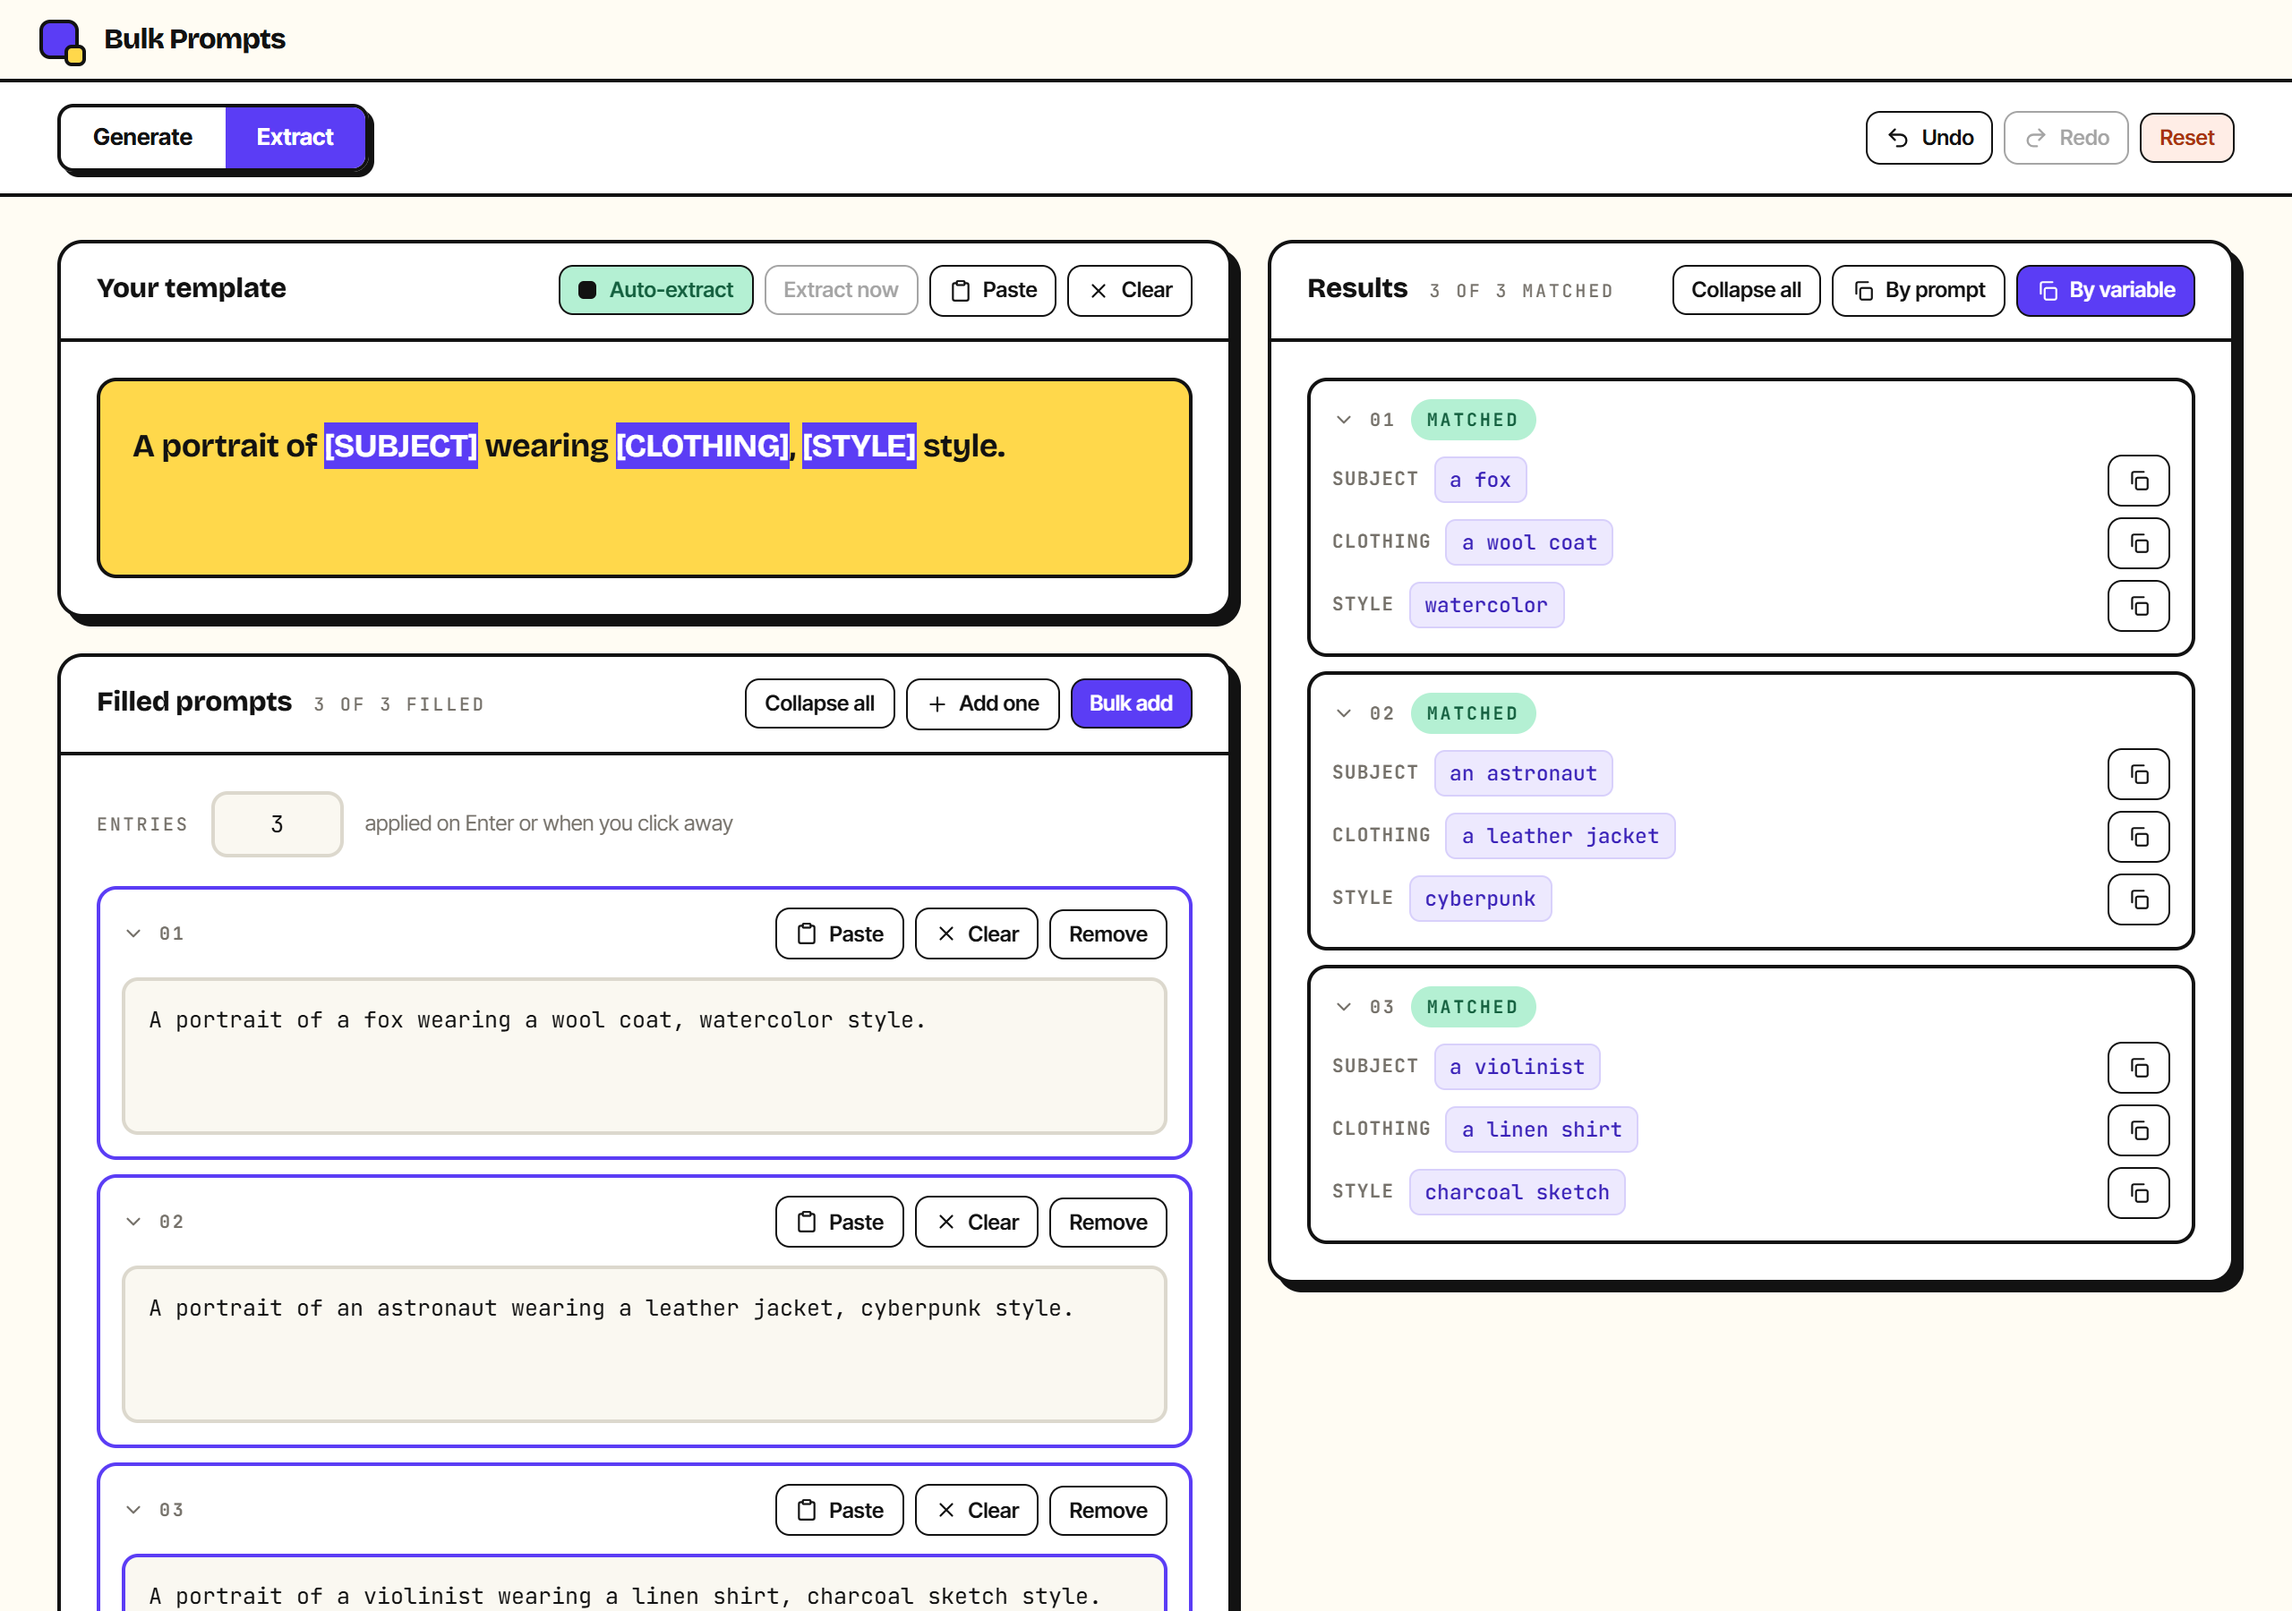
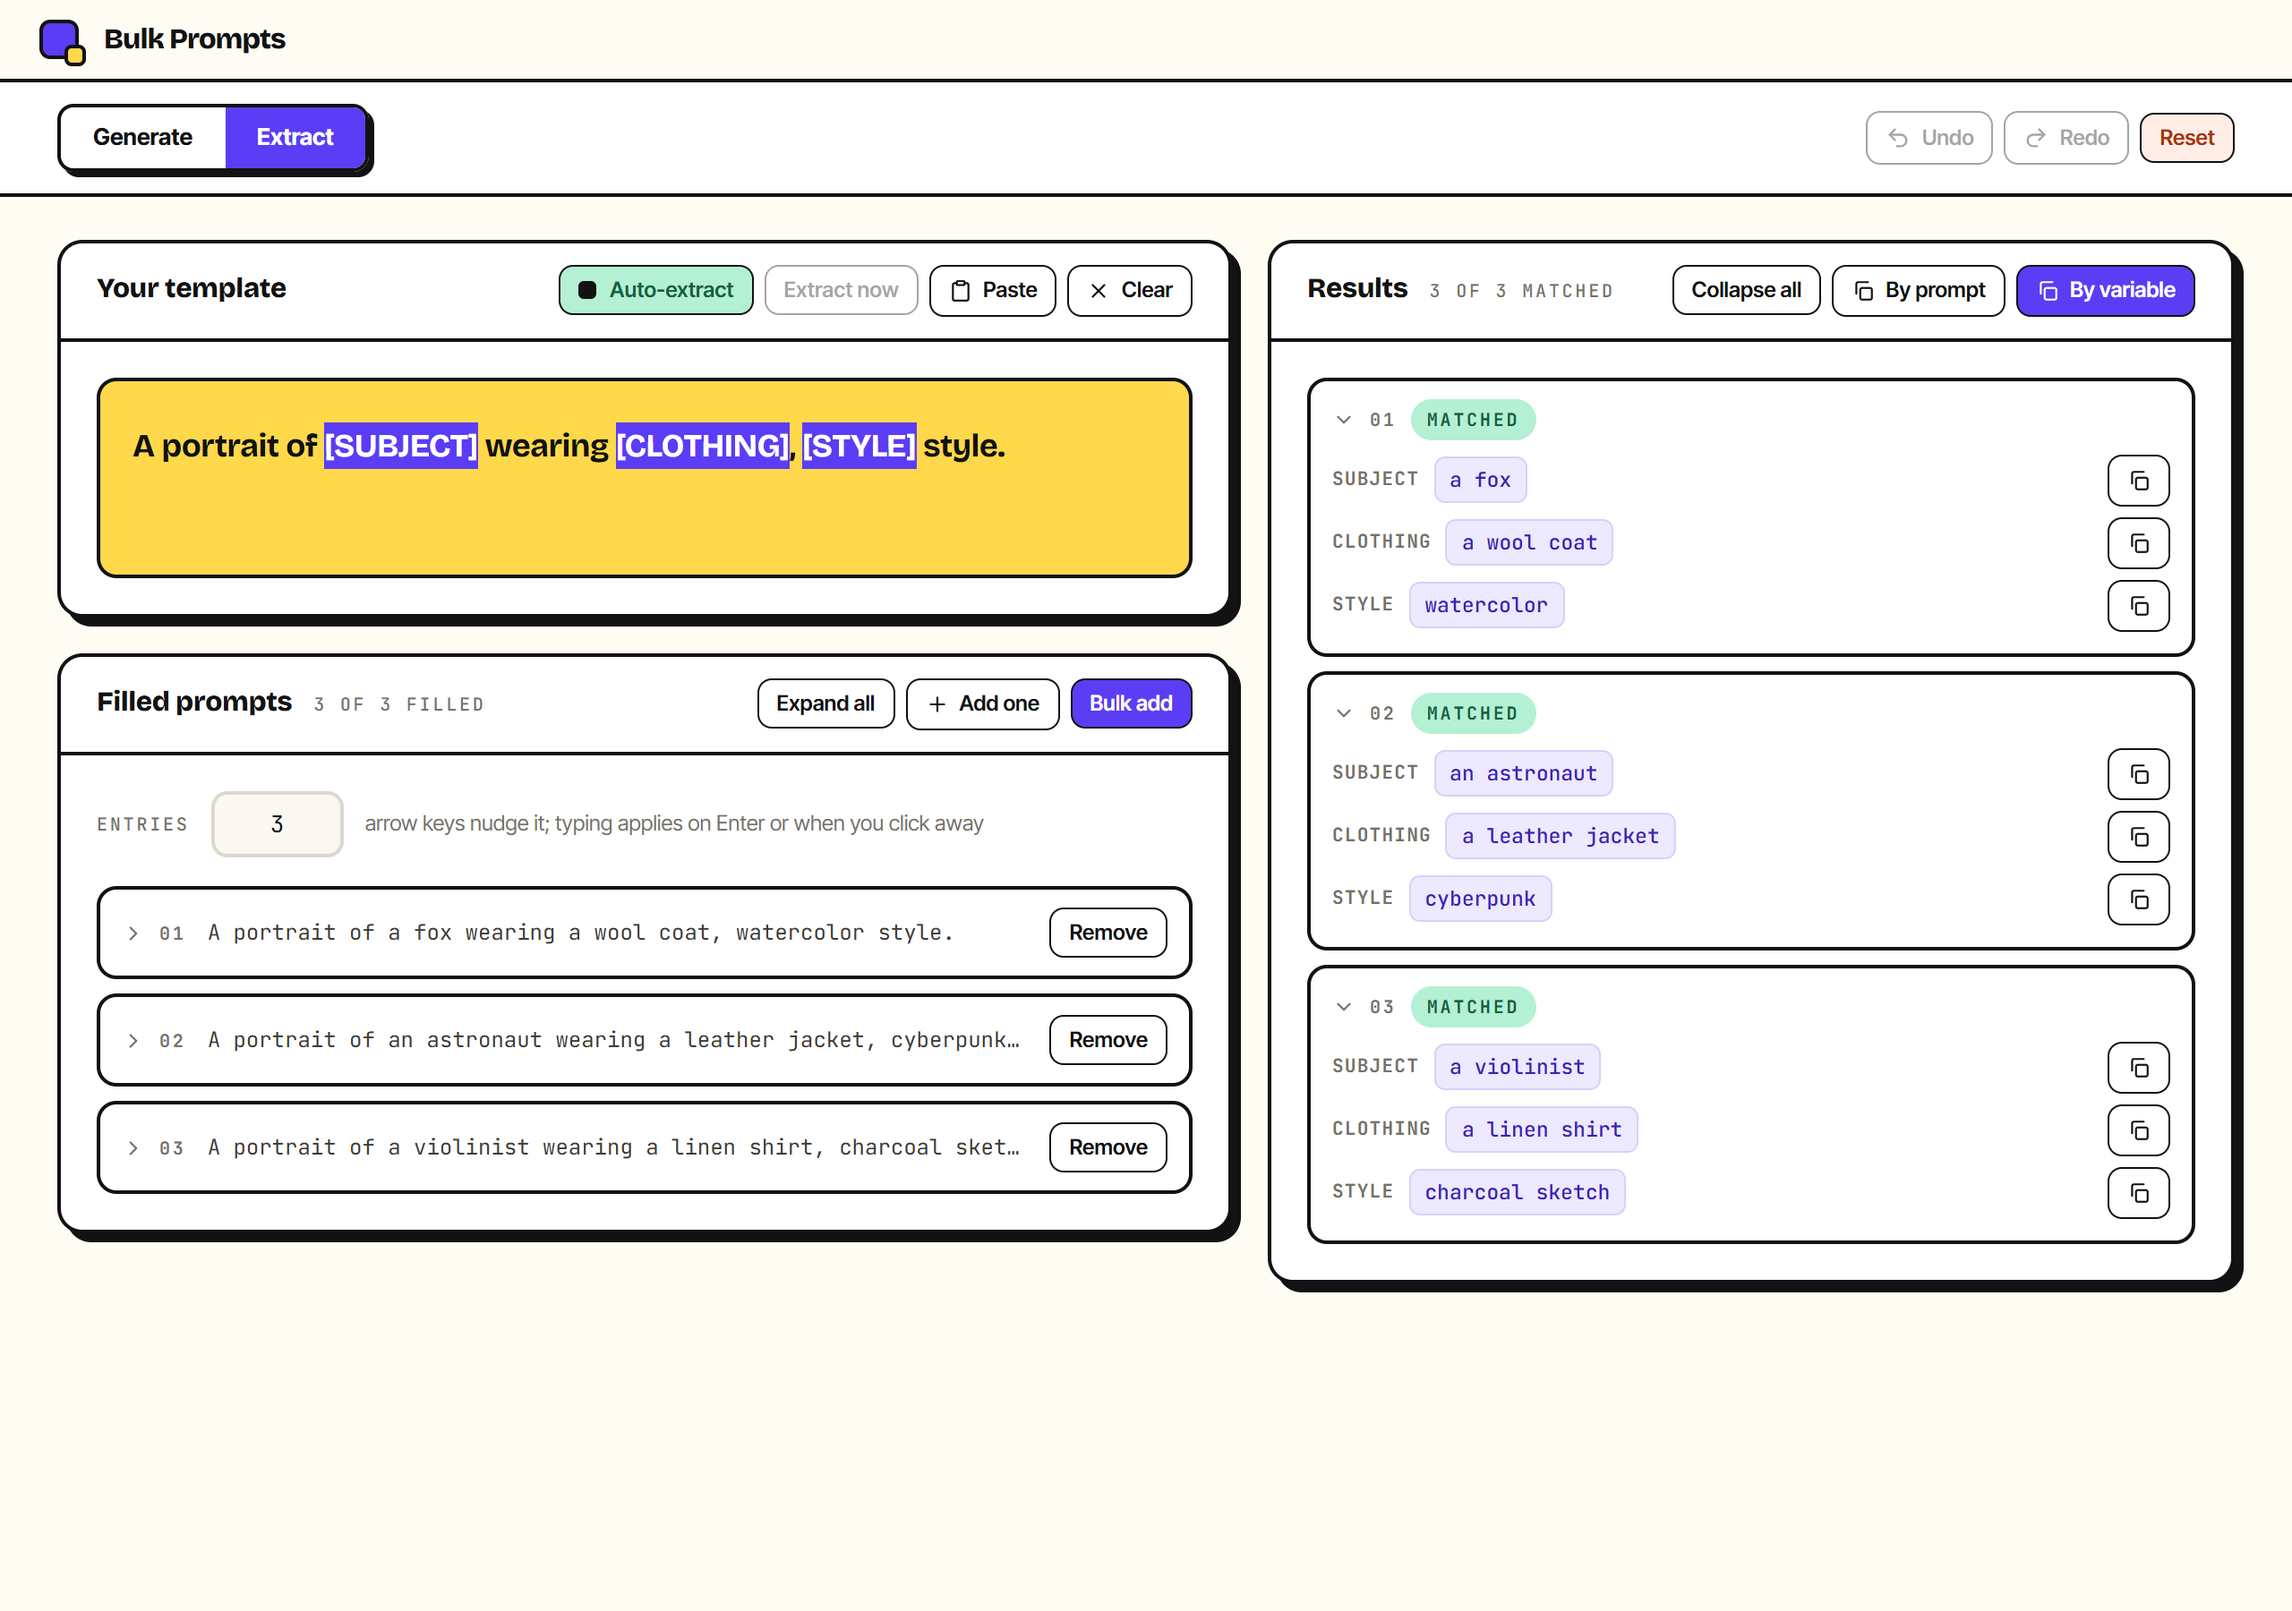
Document the new Permutation model, refresh all screenshots, bump to 1.1.1
Rewrites the README's Permutation section and Features bullet around
the section-wide default plus per-row override model, and adds a note
contrasting the live-updating group-size fields with Extract's
deliberately cautious entry-count field.

All three screenshots are recaptured against the current UI — the
previous permutation screenshot in particular showed the old
per-variable toggle design, which no longer exists.

Also drops the .gitignore entries for CLAUDE.md and SPEC.md (both
removed from the working tree; always untracked, local-only build
docs), and bumps package.json, package-lock.json, Cargo.toml, and
tauri.conf.json to 1.1.1 for the release.

diff --git a/README.md b/README.md
@@ -29,7 +29,7 @@ Generating fifty variations of the same prompt by hand is slow, and routing each
 - **Two tools, one shared shell.** Generate turns one template into many prompts; Extract runs the same idea backward. Each has its own undo history and local storage, switchable with one click.
 - **Spreadsheet-friendly input.** Every variable's values are a plain textarea, one value per line, so a column pasted straight out of a spreadsheet works with no reformatting.
 - **Uneven lists just work.** Row count follows the longest variable's list; shorter lists repeat their own last value to fill the rest, instead of forcing every column to the same length.
-- **Permutation grouping.** Flip a variable's Permutation toggle and pick a group size, and its list stops filling one row at a time — it chunks into consecutive `{a, b, c}`-style groups, one group per row, so a long list of tags or subjects can drive a handful of combined prompts instead of dozens of single ones.
+- **Permutation grouping.** One switch, next to *Collapse all*, turns every variable's list into consecutive `{a, b, c}`-style groups at a shared size, live — change the number and every variable regroups at once. Any single variable can still break off with its own size, or opt out entirely, independent of the rest.
 - **Reverses itself.** Give Extract the template plus a batch of prompts someone already wrote, and it recovers the values that produced them, flagging genuinely ambiguous cases (like `[FIRST][LAST]` with no separator between them) instead of silently guessing.
 - **Rich-text copy.** Copy with bold, italic, or underline on the variable portions, so a pasted prompt stays visually distinct in any rich-text destination, and falls back to clean plain text everywhere else.
 - **Full undo history.** A 50-deep undo stack per tool, with every bulk or destructive action (clear, shuffle, reset, bulk replace) captured as a clean, one-step undo point.
@@ -65,15 +65,19 @@ Extract does the same work in reverse: give it the template and those three fini
 
 ### Permutation grouping
 
-Turn on a variable's **Permutation** toggle and pick a group size, and that variable stops filling one row at a time — its list chunks into consecutive groups instead, each substituted as a single `{a, b, c}`-style value. Everything downstream (row count, the "longest list" driver, repeats-last) treats a group exactly like any other value.
+One **Permutation** control, next to *Collapse all*, is the default entry point for the whole section: turn it on and pick a size, and every variable's list stops filling one row at a time — each one chunks into consecutive groups instead, substituted as a single `{a, b, c}`-style value. Change the shared size and every variable regroups immediately, live — no Enter, no clicking away, and the mouse wheel works too while a group-size field is hovered.
+
+A single variable can still go its own way. Click any variable's `→ N groups of M` pill and it detaches with its own toggle and size — a different number, or off entirely — independent of whatever the shared default is doing. A **Match default** chip on that row reattaches it. Everything downstream (row count, the "longest list" driver, repeats-last) treats a group exactly like any other value, whether it came from the default or a variable's own override.
+
+A trailing group left with fewer values than the group size — the list didn't divide evenly — renders as a plain value instead of a set, since there's nothing left in it to group against.
 
 **Template**
 
 ```
-A group portrait of [SUBJECTS].
+A group portrait of [SUBJECTS], painted in [STYLE].
 ```
 
-**SUBJECTS**, six values, Permutation on with a group size of 3
+**SUBJECTS**, five values, following the shared default at a group size of 2
 
 ```
 a fox
@@ -81,17 +85,28 @@ an astronaut
 a violinist
 a beekeeper
 a locksmith
-a tightrope walker
+```
+
+**STYLE**, overridden to its own group size of 4
+
+```
+oil painting
+watercolor
+ink wash
+charcoal
 ```
 
 **Generates**
 
 ```
-A group portrait of {a fox, an astronaut, a violinist}.
-A group portrait of {a beekeeper, a locksmith, a tightrope walker}.
+A group portrait of {a fox, an astronaut}, painted in {oil painting, watercolor, ink wash, charcoal}.
+A group portrait of {a violinist, a beekeeper}, painted in {oil painting, watercolor, ink wash, charcoal}.
+A group portrait of a locksmith, painted in {oil painting, watercolor, ink wash, charcoal}.
 ```
 
-![SUBJECTS variable with Permutation on, grouping six values into two rows of three](docs/permutation.png)
+STYLE only has one group, so it repeats for every row past the first — the same rule any variable with a shorter list follows, whether it's grouped or not. Note the third row's SUBJECTS: a trailing group of exactly one value renders plain, not `{braced}`.
+
+![SUBJECTS following the shared default at a group size of 2 while STYLE is overridden to its own group size of 4, with the section-wide Permutation control visible at the top](docs/permutation.png)
 
 ## Desktop vs. browser
 
@@ -199,7 +214,9 @@ src-tauri/              Rust side of the desktop shell: window config, bundler
 
 **Undo history is in-memory.** Each tool has its own 50-deep stack. It survives switching tools but is cleared on reload: field values come back, history does not. The undo/redo buttons disable when a stack is empty so this is visible, not mysterious. Every bulk or destructive action snapshots first, including the entry-count control in Extract.
 
-**The entry-count control** in Extract applies on Enter or blur only, never per keystroke, and ignores an empty field instead of reading it as zero. Clearing the box to type a new number would otherwise truncate the list on the first keystroke.
+**Permutation's group-size fields update live** — type, use the arrow keys, or scroll the mouse wheel while hovered, and it applies immediately, no Enter needed. Safe to do live because nothing here is destructive: regrouping just re-slices the same values. The wheel accumulates fractional scroll input (a trackpad sends many tiny events per swipe, a mouse wheel sends one large one per notch) so either device moves the value by a clean, predictable step rather than overshooting.
+
+**The entry-count control** in Extract is the one field that stays cautious: typed digits apply on Enter or blur only, never per keystroke, and an empty field is ignored rather than read as zero — clearing the box to type a new number would otherwise truncate the list on the first keystroke. Arrow keys are the exception even here, since a single press is a deliberate step rather than an ambiguous partial state, so they still apply immediately. There's deliberately no scroll-wheel support on this one: unlike a group size, a stray scroll here would delete real entries with no warning at all.
 
 **Detection never depends on how text arrived.** Typed, pasted, or set programmatically all take the same path, and a manual "Detect variables" action is always available regardless of the auto-detect setting.
 
